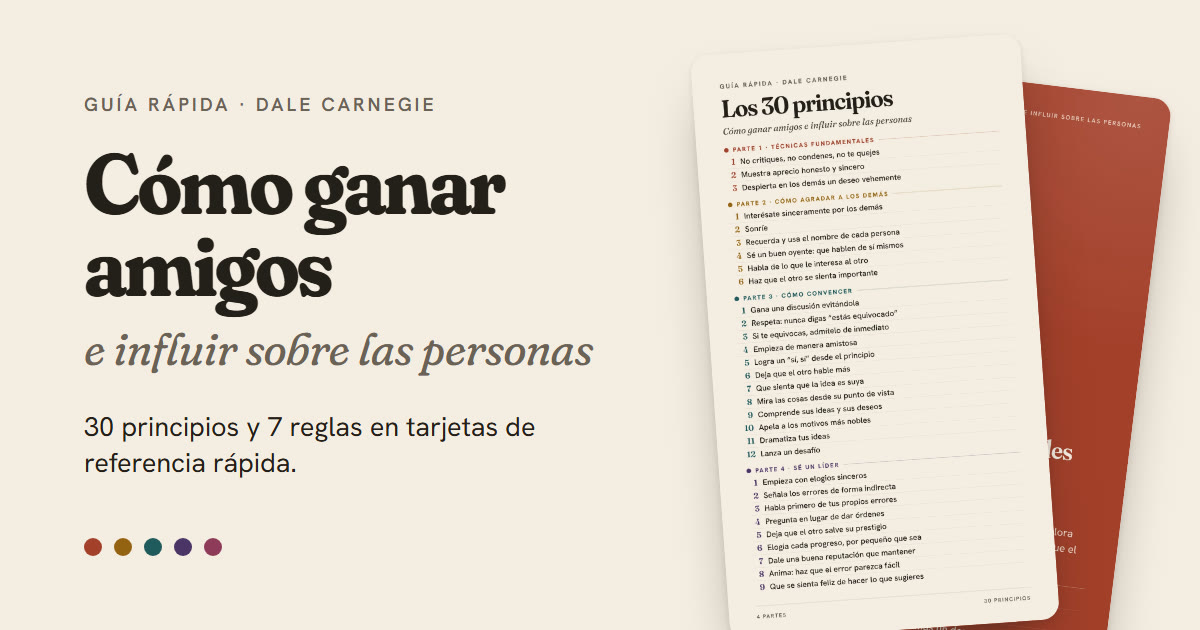
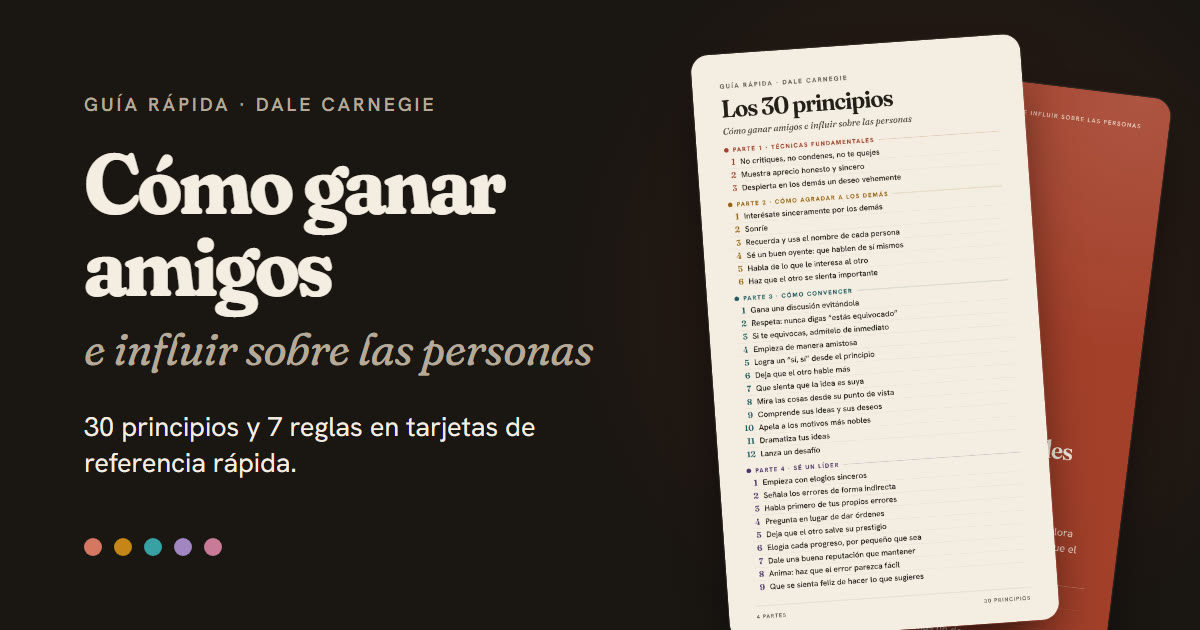
Actualiza la imagen para compartir al tema oscuro

diff --git a/tools/og.html b/tools/og.html
@@ -21,28 +21,36 @@
       height: 630px;
       overflow: hidden;
       position: relative;
-      background: #F4EDE1;
-      color: #231F19;
+      background: #1A1612;
+      color: #F4EDE1;
       font-family: "Hanken Grotesk", system-ui, sans-serif;
       -webkit-font-smoothing: antialiased;
     }
     .text { position: absolute; left: 84px; top: 92px; width: 560px; }
-    .eyebrow { margin: 0; color: #6B6256; font-size: 19px; font-weight: 600; letter-spacing: .16em; text-transform: uppercase; }
+    .eyebrow { margin: 0; color: #B5AA9A; font-size: 19px; font-weight: 600; letter-spacing: .16em; text-transform: uppercase; }
     h1 {
       margin: 26px 0 0;
       font: 700 86px/.95 "Fraunces", Georgia, serif;
       letter-spacing: -.035em;
     }
-    h1 span { display: block; margin-top: 18px; color: #6B6256; font-size: 45px; font-style: italic; font-weight: 400; line-height: 1.12; letter-spacing: -.01em; }
+    h1 span { display: block; margin-top: 18px; color: #B5AA9A; font-size: 45px; font-style: italic; font-weight: 400; line-height: 1.12; letter-spacing: -.01em; }
     .lead { margin: 34px 0 0; font-size: 27px; line-height: 1.35; max-width: 470px; }
     .dots { position: absolute; left: 84px; bottom: 74px; display: flex; gap: 12px; }
     .dots i { width: 18px; height: 18px; border-radius: 50%; }
+    .glow {
+      position: absolute;
+      right: -120px;
+      top: -90px;
+      width: 760px;
+      height: 760px;
+      background: radial-gradient(closest-side, rgb(163 64 42 / .32), rgb(163 64 42 / .08) 55%, transparent);
+    }
     .cards { position: absolute; right: 70px; top: 44px; width: 420px; height: 600px; }
     .cards img {
       position: absolute;
       width: 330px;
       border-radius: 18px;
-      box-shadow: 0 2px 6px rgb(35 31 25 / .1), 0 34px 60px -22px rgb(35 31 25 / .55);
+      box-shadow: 0 0 0 1px rgb(244 237 225 / .08), 0 34px 60px -20px rgb(0 0 0 / .9);
     }
     .back { left: 98px; top: 34px; transform: rotate(7deg); }
     .front { left: 0; top: 0; transform: rotate(-4deg); }
@@ -55,8 +63,9 @@
     <p class="lead">30 principios y 7 reglas en tarjetas de referencia rápida.</p>
   </div>
   <div class="dots" aria-hidden="true">
-    <i style="background:#A3402A"></i><i style="background:#946311"></i><i style="background:#1F5A5C"></i><i style="background:#4B3466"></i><i style="background:#8E3A59"></i>
+    <i style="background:#D67762"></i><i style="background:#C68517"></i><i style="background:#37A1A4"></i><i style="background:#A186C1"></i><i style="background:#C97A97"></i>
   </div>
+  <div class="glow" aria-hidden="true"></div>
   <div class="cards">
     <img class="back" src="../images/large/01_Parte1_portada.webp" alt="">
     <img class="front" src="../images/large/00_Mapa_de_los_30_principios.webp" alt="">
